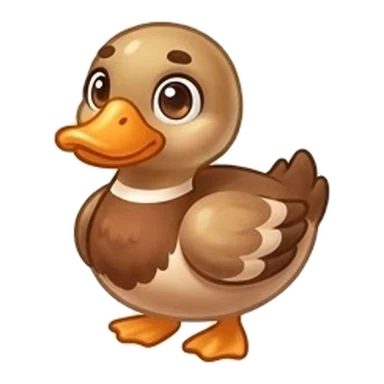
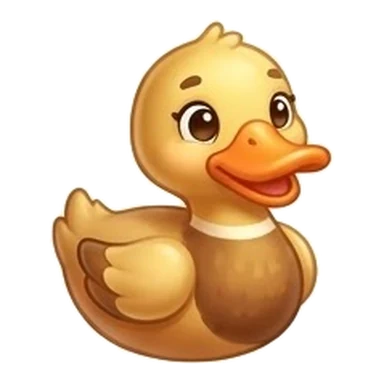
Prévia 2: PATO/PATA, BICO, SAPATO e JATO conforme o prompt; figuras só da palavra ficam fora das histórias
Claude-Session: https://claude.ai/code/session_016wJzKoWE6CEtHtmys1YGEN

diff --git a/figuras.js b/figuras.js
@@ -9,13 +9,16 @@
     '1FA80', '1F426', '1F95A', '1F347', '1F475', '1F474', '1F931', '1F9E6', '1F9F2', '1F467', '1F466', '1F6A2',
     '2744', '1F9CD', '1F319', '1F991', '1F31E', '1F337', '1F345', '1F34C', '1F34D', '1F36C', '1F372', '1F373',
     '1F382', '1F3B2', '1F3B5', '1F3B9', '1F3CD', '1F3D8', '1F3EC', '1F402', '1F40B', '1F410', '1F417', '1F41F',
-    '1F42B', '1F438', '1F43A', '1F444', '1F45F', '1F462', '1F468', '1F469', '1F476', '1F487', '1F4E6', '1F4F7',
-    '1F50C', '1F50D', '1F512', '1F514', '1F56F', '1F5D1', '1F5F3', '1F5FA', '1F6CB', '1F6CF', '1F6F4', '1F6F6',
-    '1F951', '1F952', '1F954', '1F957', '1F95B', '1F986', '1F98C', '1F9A3', '1F9B6', '1F9DA', '1F9E2', '1F9E4',
-    '1F9F0', '1F9F1', '1F9F3', '1F9F6', '1F9FC', '1FA79', '1FA81', '1FA86', '1FA99', '1FA9F', '1FAB5', '1FAB6',
-    '1FACF', '1FAD2', '1FAD6', '1FAD9', '260E', '2615', '261D', '26BD', '2708', '27A1'
+    '1F42B', '1F438', '1F43A', '1F444', '1F462', '1F468', '1F469', '1F476', '1F487', '1F4E6', '1F4F7', '1F50C',
+    '1F50D', '1F512', '1F514', '1F56F', '1F5D1', '1F5F3', '1F5FA', '1F6CB', '1F6CF', '1F6F4', '1F6F6', '1F951',
+    '1F952', '1F954', '1F957', '1F95B', '1F986', '1F98C', '1F9A3', '1F9B6', '1F9DA', '1F9E2', '1F9E4', '1F9F0',
+    '1F9F1', '1F9F3', '1F9F6', '1F9FC', '1FA79', '1FA81', '1FA86', '1FA99', '1FA9F', '1FAB5', '1FAB6', '1FACF',
+    '1FAD2', '1FAD6', '1FAD9', '260E', '2615', '261D', '26BD', '27A1', '1F425', '1F43E', '1F45E', '1F6E9'
   ];
   // 1ª leva (16): IOIÔ AVE OVO UVA VOVÓ VOVÔ MAMÃE MEIA ÍMÃ MENINA MENINO NAVIO NEVE FILA LUA LULA; 2ª leva (78): ver figuras/palavras
+  // Figuras desenhadas para o sentido da palavra no jogo, diferente do emoji usado nas histórias
+  // (BICO = cabeça de pássaro com bico, nas histórias 🐥 é o pintinho; PATA = a pata, fêmea do pato, nas histórias 🐾 é pegada)
+  const SO_PALAVRA = ['1F425', '1F43E'];
   // Ícones da interface que aparecem como texto (botões, placas, avisos)
   const UI = {
     '🔊': 'ouvir', '🐢': 'devagar', '🔒': 'cadeado', '⭐': 'estrela', '🪙': 'moeda', '🎁': 'presente',
@@ -85,7 +88,8 @@
 
   window.Figuras = {
     ativo: true,
-    palavra: (code) => (PALAVRAS.includes(code) ? B + 'palavras/' + code + '.webp' : null),
+    // emCena = figura montada com vários emojis (histórias): aí as figuras que só valem para a palavra ficam de fora
+    palavra: (code, emCena) => (PALAVRAS.includes(code) && !(emCena && SO_PALAVRA.includes(code)) ? B + 'palavras/' + code + '.webp' : null),
     mundo: (id) => B + 'mundos/mundo' + id + '.webp',
     bau: B + 'mundos/bau.webp',
     medalha: (id) => B + 'medalhas/' + id + '.webp',

diff --git a/game.js b/game.js
@@ -67,9 +67,10 @@
   ];
   function fig(emoji, cls) {
     const span = el('span', { class: cls || 'fig', 'aria-hidden': 'true' });
-    N.separarEmojis(emoji).forEach((pt) => {
+    const partes = N.separarEmojis(emoji);
+    partes.forEach((pt) => {
       const code = N.codigoOpenMoji(pt);
-      const propria = window.Figuras && window.Figuras.palavra(code);
+      const propria = window.Figuras && window.Figuras.palavra(code, partes.length > 1);
       let k = propria ? -1 : 0;
       const img = el('img', { src: propria || CDN_IMG[0](code), class: propria ? 'fig-propria' : null, alt: '', draggable: 'false', loading: 'lazy', decoding: 'async' });
       img.addEventListener('error', () => { k++; if (k < CDN_IMG.length) img.src = CDN_IMG[k](code); else img.replaceWith(el('span', { class: 'emoji-nativo' }, pt)); });
